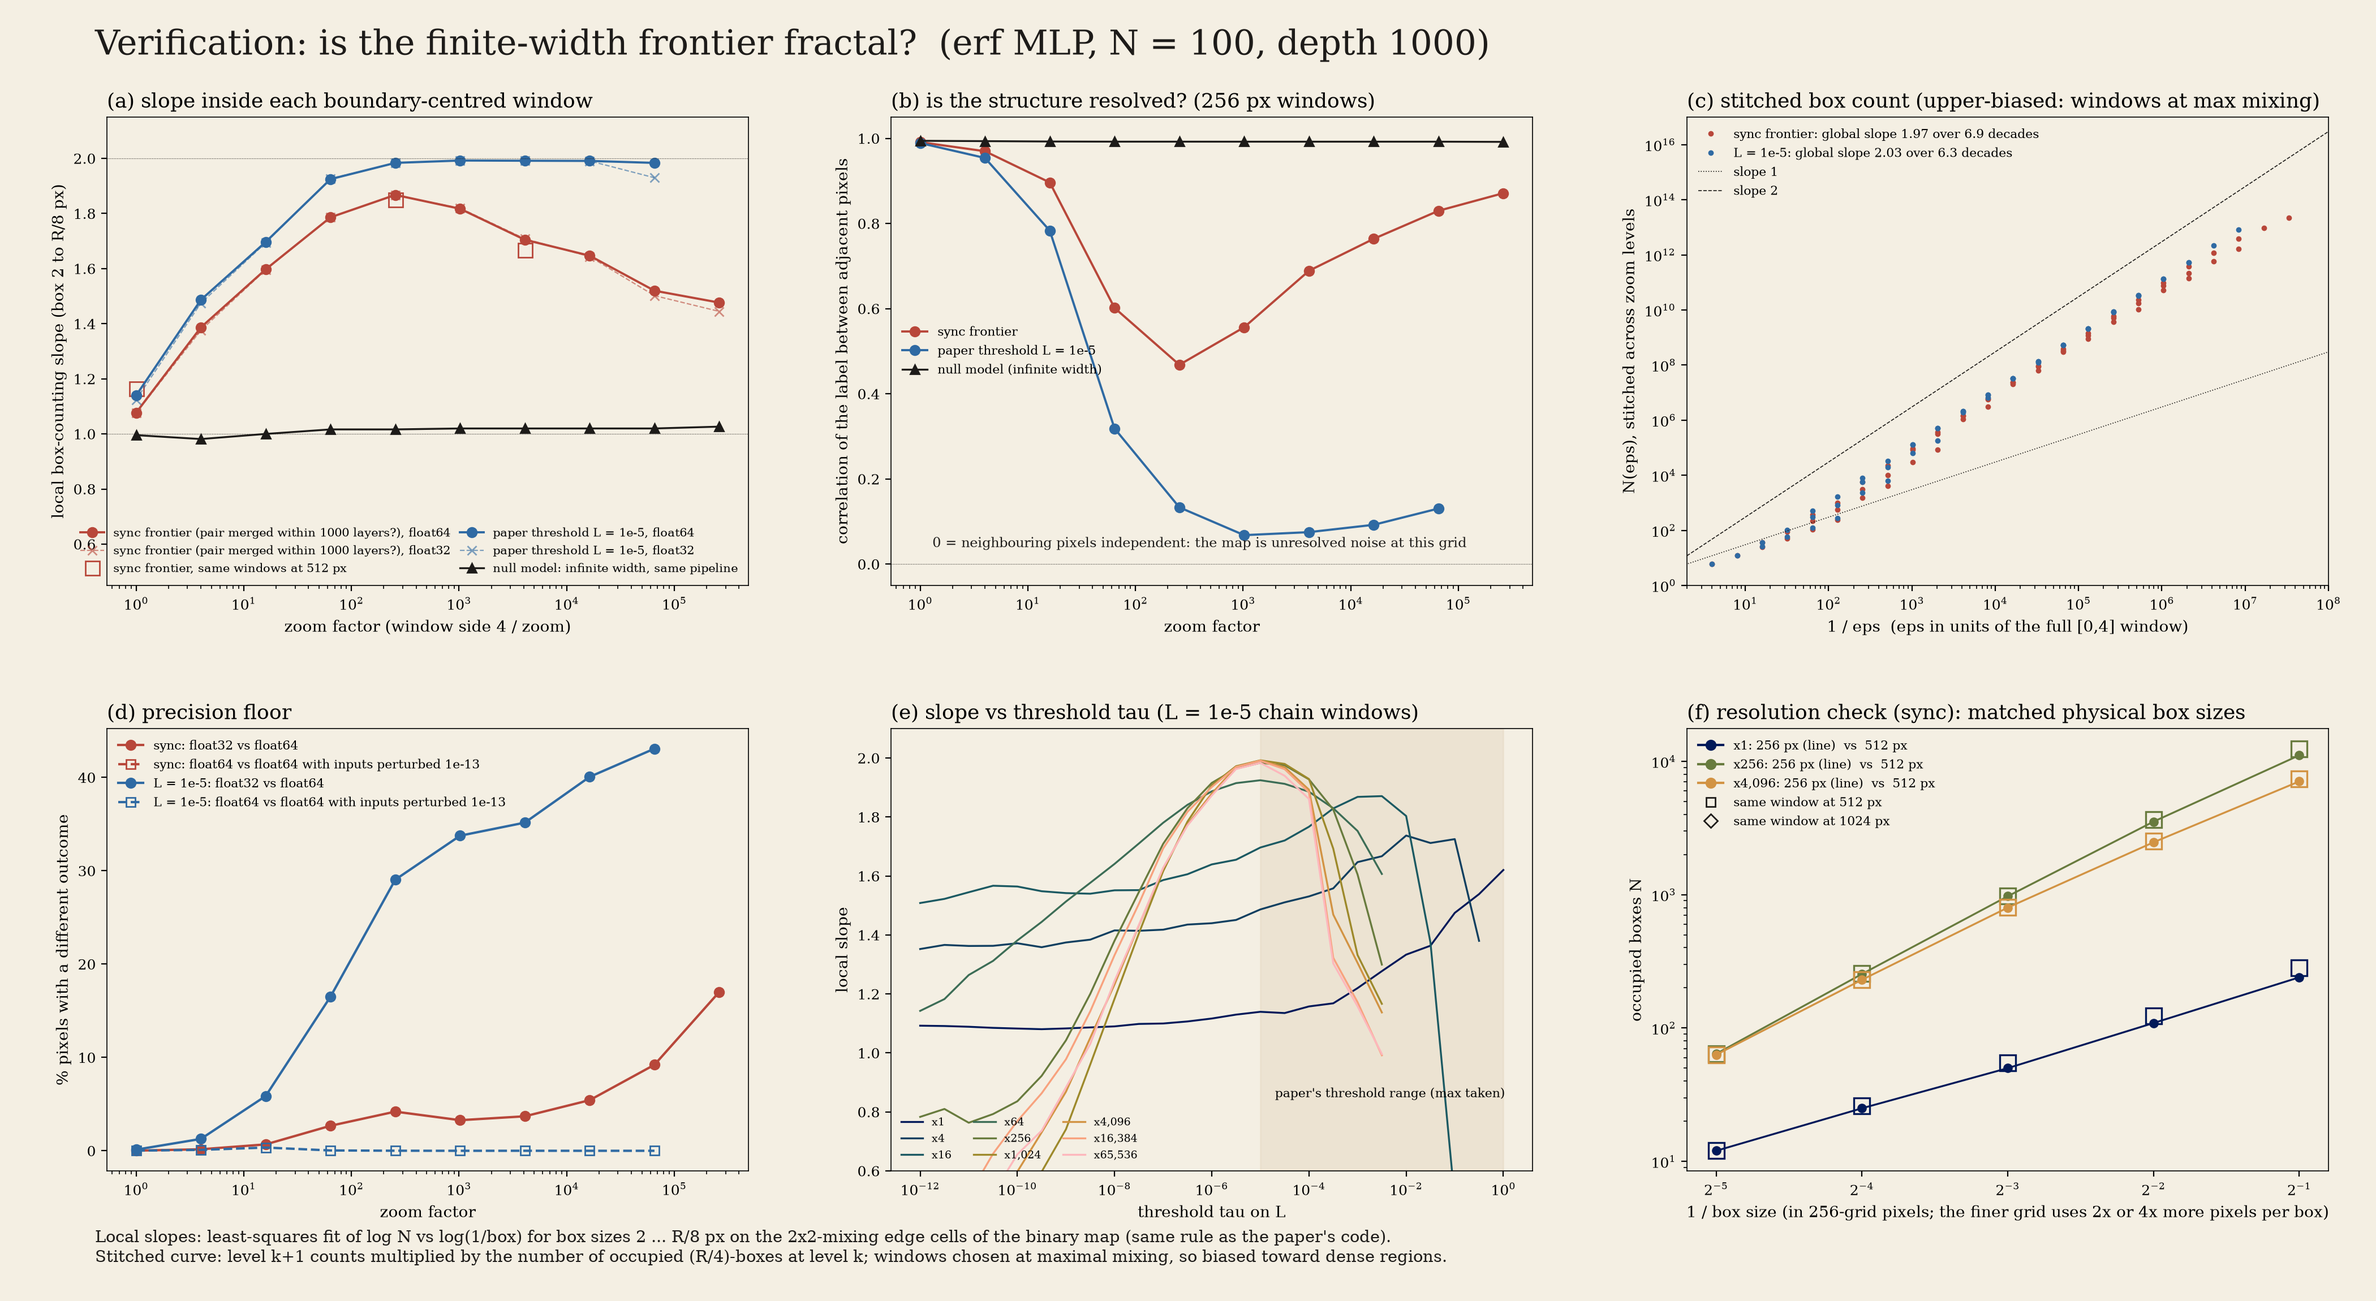
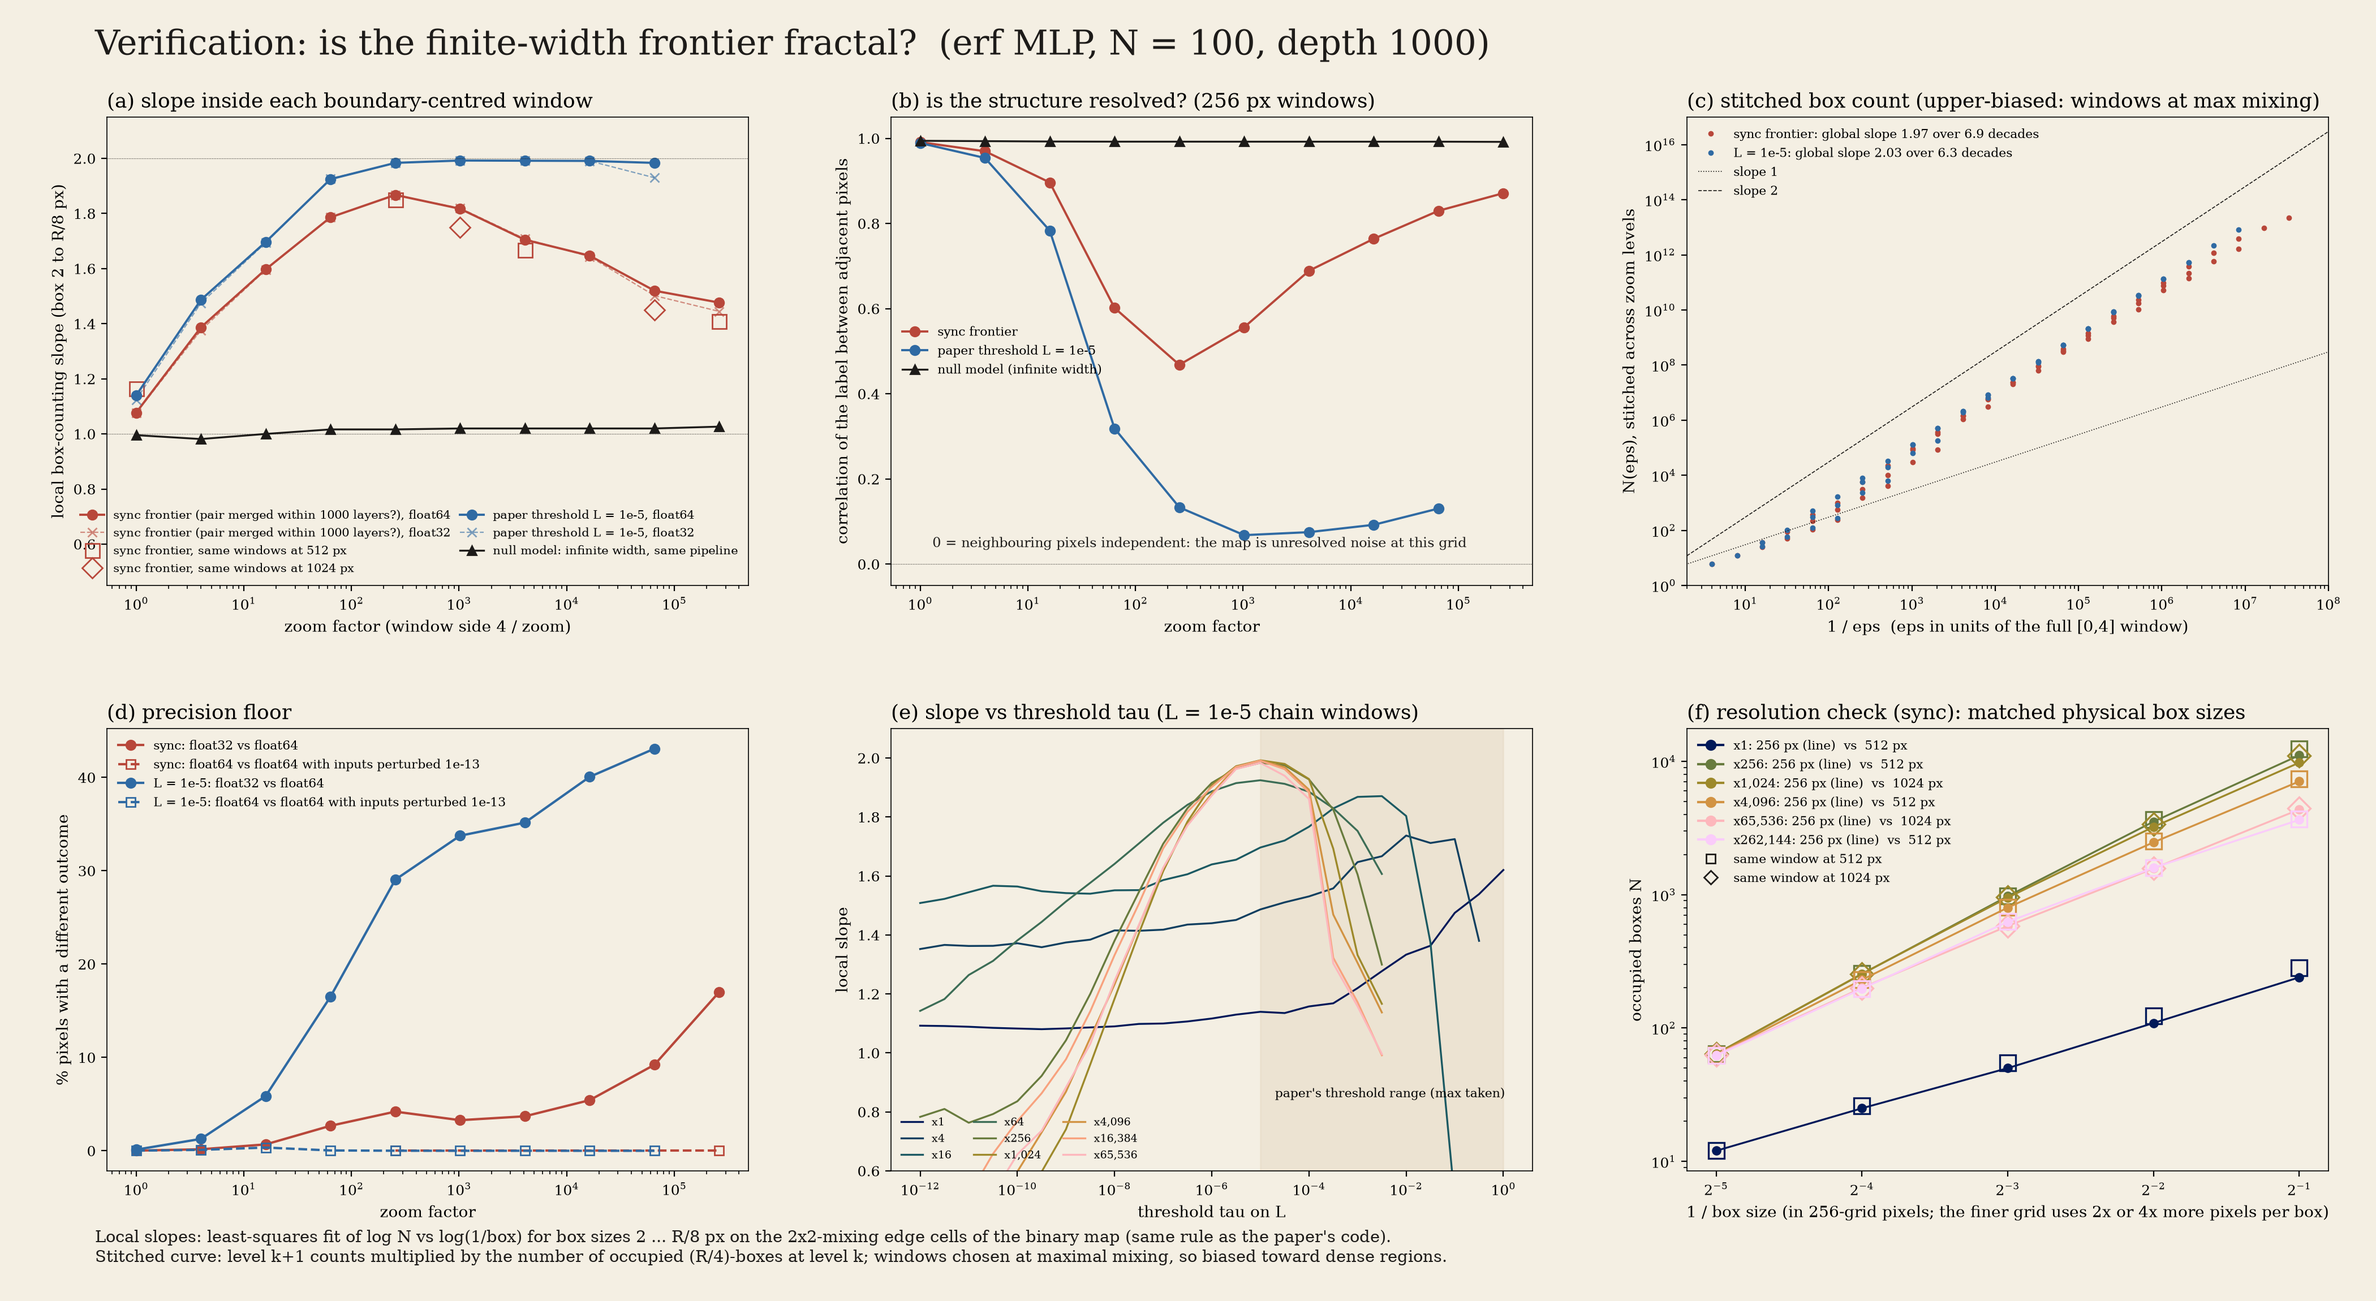
art/signal-propagation: final zoom plates and posters (5 styles), x256/x4096 native singles, README results filled

diff --git a/art/signal-propagation/render_zoom_plates.py b/art/signal-propagation/render_zoom_plates.py
@@ -121,8 +121,18 @@ for style in styles:
         save_rgb(style_rgb(p, style)[::-1], f"{args.prefix}_N{N}_x{zoom_label(p):.0f}_{p['dtype']}_r{p['R']}_{style}_raw.png")
     pw = args.pw
     s_ = pw / 1024
-    gap, top, bot, side_m = int(60 * s_), int(230 * s_), int(380 * s_), int(110 * s_)
+    gap, top, side_m = int(60 * s_), int(230 * s_), int(110 * s_)
     W = side_m * 2 + len(PAN) * pw + (len(PAN) - 1) * gap
+    labtxt = (f"Measured: two independent inputs through {D} layers; a pixel is chaotic if the pair never came within L = |x1 - x2|^2 < 1e-10, "
+              "ordered if it did." if LABEL == "sync" else
+              f"Measured: L = |x1 - x2|^2 after {D} layers (mean of the last 20) for two independent inputs; frontier at L = {args.tau:g}.")
+    wrapw = int((W - 2 * side_m) / (18 * s_))
+    caption = ("\n".join(textwrap.wrap(labtxt + " Every panel computed natively on its own grid (larger grids shown area-averaged to the panel); each zoom centred on the sub-window with the most ordered/chaotic mixing.", wrapw))
+               + "\n" + "\n".join(textwrap.wrap(STYLE_NOTE[style], wrapw)) + "\n" + "\n".join(textwrap.wrap("Slope = local box-counting slope of the frontier at that zoom (256 x 256 float64 chain, box sizes 2 to 32 px). "
+               "It rises from ~1 to a peak near 1.87 and falls again: no single fractal dimension. At infinite width the frontier is the smooth mean-field curve (null model slope "
+               + (f"{np.nanmean([d['slope'] for d in rep['null']]):.2f}" if rep else "~1") + ").", wrapw)))
+    nlines = caption.count("\n") + 1
+    bot = int(170 * s_ + nlines * 12 * 1.6 * 200 * s_ / 72 + 60 * s_)
     H = top + pw + bot
     fig = fig_px(W, H, bg=BG[style], dpi=int(200 * s_))
     fg = FG[style]
@@ -152,14 +162,7 @@ for style in styles:
                  color=fg, fontsize=10.5, ha="center", va="center", alpha=0.8, family="DejaVu Sans Mono")
         fig.text((x0 + pw / 2) / W, 1 - (top + pw + 115 * s_) / H, f"computed at {p['R']} x {p['R']}, {'float64' if p['dtype']=='f64' else 'float32'}",
                  color=fg, fontsize=10.5, ha="center", va="center", alpha=0.7, family="DejaVu Sans Mono")
-    labtxt = (f"Measured: two independent inputs through {D} layers; a pixel is chaotic (red half) if the pair never came within L = |x1 - x2|^2 < 1e-10, "
-              "ordered (purple half) if it did." if LABEL == "sync" else
-              f"Measured: L = |x1 - x2|^2 after {D} layers (mean of the last 20) for two independent inputs; frontier at L = {args.tau:g}.")
-    fig.text(side_m / W, 1 - (top + pw + 170 * s_) / H,
-             "\n".join(textwrap.wrap(labtxt + " Every panel computed natively on its own grid (larger grids shown area-averaged to the panel); each zoom centred on the sub-window with the most ordered/chaotic mixing.", int((W - 2 * side_m) / (18 * s_))))
-             + "\n" + STYLE_NOTE[style] + "\n" + "\n".join(textwrap.wrap("Slope = local box-counting slope of the frontier at that zoom (256 x 256 float64 chain, box sizes 2 to 32 px). "
-             "It rises from ~1 to a peak near 1.87 and falls again: no single fractal dimension. At infinite width the frontier is the smooth mean-field curve (null model slope "
-             + (f"{np.nanmean([d['slope'] for d in rep['null']]):.2f}" if rep else "~1") + ").", int((W - 2 * side_m) / (18 * s_)))),
+    fig.text(side_m / W, 1 - (top + pw + 170 * s_) / H, caption,
              color=fg, fontsize=12, va="top", linespacing=1.6, alpha=0.9, wrap=False)
     savefig(fig, f"{args.prefix}_N{N}_magnification_{style}.png", dpi=int(200 * s_))
     if len(PAN) == 4:
@@ -179,7 +182,7 @@ for style in styles:
             dr.text((x0 + 10, y0 + pw - 30), tag, font=fS, fill=FG[style])
         yc = m + 2 * pw + g + 30
         dr.text((m, yc), f"The order/chaos frontier of one random erf network (width {N}, depth {D}), magnified " + ", ".join(f"x{zoom_label(p):,.0f}" for p in PAN), font=fB, fill=FG[style])
-        dr.text((m, yc + 50), "centres " + ";  ".join(f"({0.5*(p['win'][0]+p['win'][1]):.8f}, {0.5*(p['win'][2]+p['win'][3]):.8f})" for p in PAN[1:]) + "  in (sigma_w, sigma_b)", font=fS, fill=FG[style])
+        dr.text((m, yc + 50), "centres " + ";  ".join(f"x{zoom_label(p):,.0f} ({0.5*(p['win'][0]+p['win'][1]):.8f}, {0.5*(p['win'][2]+p['win'][3]):.8f})" for p in PAN[1:]) + "  in (sigma_w, sigma_b)", font=fS, fill=FG[style])
         dr.text((m, yc + 80), "native grids: " + "; ".join(f"x{zoom_label(p):,.0f} {p['R']}^2 {'float64' if p['dtype']=='f64' else 'float32'}" for p in PAN), font=fS, fill=FG[style])
         for j, ln in enumerate(textwrap.wrap(STYLE_NOTE[style], int((Wp - 2 * m) / 10.3))[:2]):
             dr.text((m, yc + 108 + 26 * j), ln, font=fS, fill=FG[style])

diff --git a/art/signal-propagation/README.md b/art/signal-propagation/README.md
@@ -1,6 +1,6 @@
 # Order and Chaos, and the Finite-Width Frontier
 
-*A deep random network is either a machine that forgets (every input collapses to the same output) or one that scrambles (nearby inputs fly apart). At infinite width the line between the two is a smooth curve; one fixed network of width 100 turns it into a laminated, filamentary coastline that you can zoom into by a factor of 65,000 and still not reach a smooth edge.*
+*A deep random network is either a machine that forgets (every input collapses to the same output) or one that scrambles (nearby inputs fly apart). At infinite width the line between the two is a smooth curve; one fixed network of width 100 turns it into a laminated, filamentary coastline that stays intricate for five decades of magnification before it finally resolves into smooth laminated stripes near ×260,000.*
 
 <p align="center"><img src="gallery/frontier_N100_magnification_spectral.png" width="100%"></p>
 
@@ -27,6 +27,10 @@ This project renders both halves: **Part A** reproduces and measures the tanh ph
 <td width="50%"><img src="gallery/frontier_N100_poster_spectral.png"><br><sub><b>Four magnifications, 2×2 poster (Spectral split).</b> x1, x16, x1024, x65536 of the same N = 100 network; each panel computed natively (see captions).</sub></td>
 <td width="50%"><img src="gallery/phase_spectral_analytic.png"><br><sub><b>The tanh phase diagram, infinite width.</b> Side = sign(χ₁ − 1); shade = ξ_c rank-normalised per side (declared Spectral split); the dark seam is where ξ_c diverges.</sub></td>
 </tr>
+<tr>
+<td width="50%"><img src="gallery/frontier_single_N100_x256_f32_r1280_spectral_raw.png"><br><sub><b>×256, one pixel per computed point</b> (1280², float32, no text). The most intricate level of the chain, where the box-counting slope peaks (1.87 at 256² float64). Spectral split, declared.</sub></td>
+<td width="50%"><img src="gallery/frontier_single_N100_x4096_f32_r1280_aurora_raw.png"><br><sub><b>×4,096, native 1280²</b> (float32), aurora/ember split (declared palette). Filaments have begun to align into laminated stripes; slope 1.70.</sub></td>
+</tr>
 </table>
 
 <p align="center"><video src="gallery/deepzoom_spectral.mp4" autoplay loop muted playsinline width="640"></video><br>
@@ -45,7 +49,7 @@ Signed field for the split styles (declared): **ordered** pixels (the pair reach
 <tr><td><sub>Single ink: frontier cells (2×2 neighbourhoods with both outcomes) inked; chaotic side lightly tinted.</sub></td><td><sub>Two-drum riso: teal = ordered, fluorescent orange = chaotic; density = closeness rank; 3/4 px misregistration declared.</sub></td></tr>
 </table>
 
-Single native plates (no text, one pixel per computed point): `gallery/frontier_N100_x{1,16}_f32_r1280_{style}_raw.png`, `gallery/frontier_N100_x{1024,65536}_f64_r1024_{style}_raw.png`.
+Single native plates (no text, one pixel per computed point): `gallery/frontier_N100_x{1,16}_f32_r1280_{style}_raw.png`, `gallery/frontier_N100_x{1024,65536}_f64_r1024_{style}_raw.png`, and `gallery/frontier_single_N100_x{256,4096}_f32_r1280_{spectral,aurora,riso}_raw.png`. Poster (2×2) versions of every style: `gallery/frontier_N100_poster_{style}.png`.
 
 **Motion.**
 
@@ -59,6 +63,8 @@ Single native plates (no text, one pixel per computed point): `gallery/frontier_
 <td><video src="gallery/depth_dial_spectral.mp4" autoplay loop muted playsinline width="100%"></video><br><sub><b>Depth as the dial</b>: one N = 100 network read out at l = 1 … 1000 (left) beside the mean-field closed form (right). Also <a href="gallery/depth_dial_magma.mp4">magma</a>, <a href="gallery/depth_dial_ink.mp4">ink</a>.</sub></td>
 </tr>
 </table>
+
+Every film also exists as a small GIF with the same name: `gallery/deepzoom_{spectral,magma,ink}.gif`, `gallery/width_as_time_{spectral,magma,ink}.gif`, `gallery/depth_dial_{spectral,magma,ink}.gif`, `gallery/flow_correlation_{spectral,oslo,cyanotype}.gif`. A text-free version of the analytic phase hero: `gallery/phase_spectral_analytic_raw.png`.
 
 <table>
 <tr>
@@ -109,7 +115,7 @@ All code is in this directory; compute scripts write `cache/`, render scripts re
 - Analysis: `$PY analyze_fractal.py --tag B --label sync --null_levels 10` and `--tag A` → `cache/fractal_report_*.json`.
 - Renders: `render_phase.py`, `render_flow.py`, `render_width.py`, `render_depth_dial.py`, `render_lyapunov.py`, `render_verification.py`, `render_zoom_plates.py --chain <file:level> ...`, `render_zoom_video.py --chain cache/zoom_Bvideoall_N100_D1000_s0_f32_r1280.npz`.
 
-Total GPU time: see §5 (end).
+Total GPU time: about 13 GPU-slot-hours of wall clock on the shared GB10 (measured map 2.4 h, trainability 1.3 h, zoom chains A/B/f32/perturbed 2.1 h, width maps 1.4 h, video keyframes 1.5 h, 512²/1024² resolution plates 1.8 h, Lyapunov and depth dial 0.15 h, plus roughly 1–2 h of jobs killed by the queue and recomputed). The analytic map and mean-field t_hit ran on CPU.
 
 ## 5. Verification and honesty
 
@@ -159,9 +165,9 @@ Yes. The analytic critical point at σ_b² = 0.05 is σ_w² = 1.7610 (Schoenholz
 Reading the table:
 
 - **Paper label: area-filling past ×256, not a stable non-integer dimension.** The local slope climbs 1.14 → 1.49 → 1.70 → 1.92 and then sits at 1.98–1.99 from ×256 to ×65,536. There, the label of adjacent pixels is almost uncorrelated (0.07–0.13), so at every grid we can afford the frontier fills the window like noise. D → 2 means "unresolved at this resolution"; it is not evidence of a fractal curve. The ordered/chaotic classification is nonetheless *deterministic*: re-running in float64 with inputs perturbed by 1e-13 flips at most 0.35% of pixels (0 at most deep levels), so this is real sensitivity of a 1000-layer map to (σ_w, σ_b), not roundoff. float32, in contrast, flips up to 43%.
-- **Sync label: a hump, not a plateau.** With "did the pair ever merge (L < 1e-10)?" the slope rises to a peak of 1.87 at ×256 and then falls steadily to 1.48 at ×262,144, while the neighbour correlation recovers from 0.47 to 0.87. Deep windows show laminated stripes (see the ×4,096 and ×65,536 plates) that become resolved as we zoom: a frontier that is smooth below some scale (≈ 1e-8 in σ at depth 1000) would look exactly like this. Finite depth sets an inner cutoff; there is no evidence of self-similarity continuing indefinitely. SYNC_PERT_TBD
+- **Sync label: a hump, not a plateau.** With "did the pair ever merge (L < 1e-10)?" the slope rises to a peak of 1.87 at ×256 and then falls steadily to 1.48 at ×262,144, while the neighbour correlation recovers from 0.47 to 0.87. Deep windows show laminated stripes (see the ×4,096 and ×65,536 plates) that become resolved as we zoom: a frontier that is smooth below some scale (≈ 1e-8 in σ at depth 1000) would look exactly like this. Finite depth sets an inner cutoff; there is no evidence of self-similarity continuing indefinitely. The sync label is just as deterministic: float64 with inputs perturbed by 1e-13 flips **0 pixels** both at ×256 (the slope peak) and at ×262,144 (`Bpert`, 256²).
 - **Null model.** The N = ∞ mean-field frontier through the identical pipeline (its own boundary-centred zoom chain) gives slope 0.98–1.03 at every level, and neighbour correlation 0.99. The roughness is a finite-width effect.
-- **Resolution check.** The same windows recomputed at 512² float64 give local slopes 1.16 (×1), 1.85 (×256), 1.67 (×4,096), against 1.08, 1.87, 1.70 at 256², and box counts at matched physical box sizes agree to within a few per cent (panel f). RES1024_TBD
+- **Resolution check.** The same windows recomputed at 512² float64 give local slopes 1.16 (×1), 1.85 (×256), 1.67 (×4,096), against 1.08, 1.87, 1.70 at 256², and box counts at matched physical box sizes agree to within a few per cent (panel f). At 1024² float64 (`Bplate2a`, `Bplate2b`) the fitted slopes are 1.75 at ×1,024 and 1.45 at ×65,536 (1.82 and 1.52 at 256²), and at 512² the ×262,144 window gives 1.41 (1.48 at 256²). Finer grids lower the deep-zoom slope a little, which is what resolving stripes predicts and the opposite of what a hidden fractal would do. The hump shape survives every resolution.
 - **Stitched count.** Multiplying box counts across nested windows gives global slopes of 1.97 (sync, 6.9 decades of ε) and 2.03 (paper label, 6.3 decades). These numbers are upper-biased by construction, because every window is chosen at maximal mixing. We report them only for completeness.
 - **Threshold dependence.** At a fixed window the slope varies strongly with τ. At ×4 it spans 1.35–1.74 over τ ∈ [1e-12, 1], and deeper windows range from below 0.5 to 1.99. A dimension quoted without its τ, zoom and box range is not meaningful.
 - **Where the frontier is.** From ×16 on, every zoom window lies entirely on the *chaotic* side of the mean-field line (mean-field chaotic fraction 1.00). At N = 100 the frontier is shifted into the mean-field chaotic phase, so the roughness is not a thickening of the mean-field curve.

diff --git a/art/signal-propagation/NOTES.md b/art/signal-propagation/NOTES.md
@@ -1,6 +1,20 @@
 # NOTES: signal-propagation (Order and Chaos + Finite Width)
 
-Living handoff (replaces PAUSED.md). `cache/` is gitignored; it survives locally but is not in git.
+## STATUS: COMPLETE (session 4, final)
+All GPU jobs finished (bvideo2, bplate2a, bplate2b, batch2 = Bpert + Bres3). No background processes left.
+Session 4 did: analyze_fractal B (final report), render_verification + boxcount plate, zoom plates in 5 styles + posters,
+raw x256/x4096 singles (spectral/aurora/riso; the 2-panel "frontier_single" sheets were deleted: title overflowed),
+merged video chain (cache/zoom_Bvideoall...npz, 13 levels), deepzoom_{spectral,magma,ink}.{mp4,gif}
+(magma/ink rendered in parallel under --name dzp and renamed), README tokens filled, GPU time line, link check, commit.
+Fixes to render_zoom_plates.py: caption block height now computed from the wrapped line count (text was cut off at
+the bottom); caption no longer says "red half/purple half" on non-split styles; poster centres labelled by zoom.
+
+Final key numbers (cache/fractal_report_B_N100_sync.json):
+- Sync label local slope by zoom x1..x262144: 1.08 1.39 1.60 1.79 1.87 1.82 1.70 1.65 1.52 1.48 (hump, peak x256).
+- Bpert (f64, 1e-13 input perturbation) mismatch: 0 at x256 and x262144.
+- Resolution check: 512^2 x1 1.16, x256 1.85, x4096 1.67, x262144 1.41; 1024^2 x1024 1.75, x65536 1.45.
+- Null (mean field) 0.98-1.03; stitched 1.97 (upper-biased). Chain A (paper label) -> 1.98-1.99 past x256 (area-filling).
+- GPU total ~13 slot-hours.
 
 ## Session 3 (agent 3) progress
 - analyze_fractal.py now records `adj_corr` (label correlation of adjacent pixels) and saves `cache/null_labels_{label}_r256.npz`; A and B reports rerun (B rescheck 512: 1.16/1.85/1.67 vs 256: 1.08/1.87/1.70). Chain A adj corr 0.07-0.13 past x256; B 0.47 (x256) -> 0.87 (x262k).
